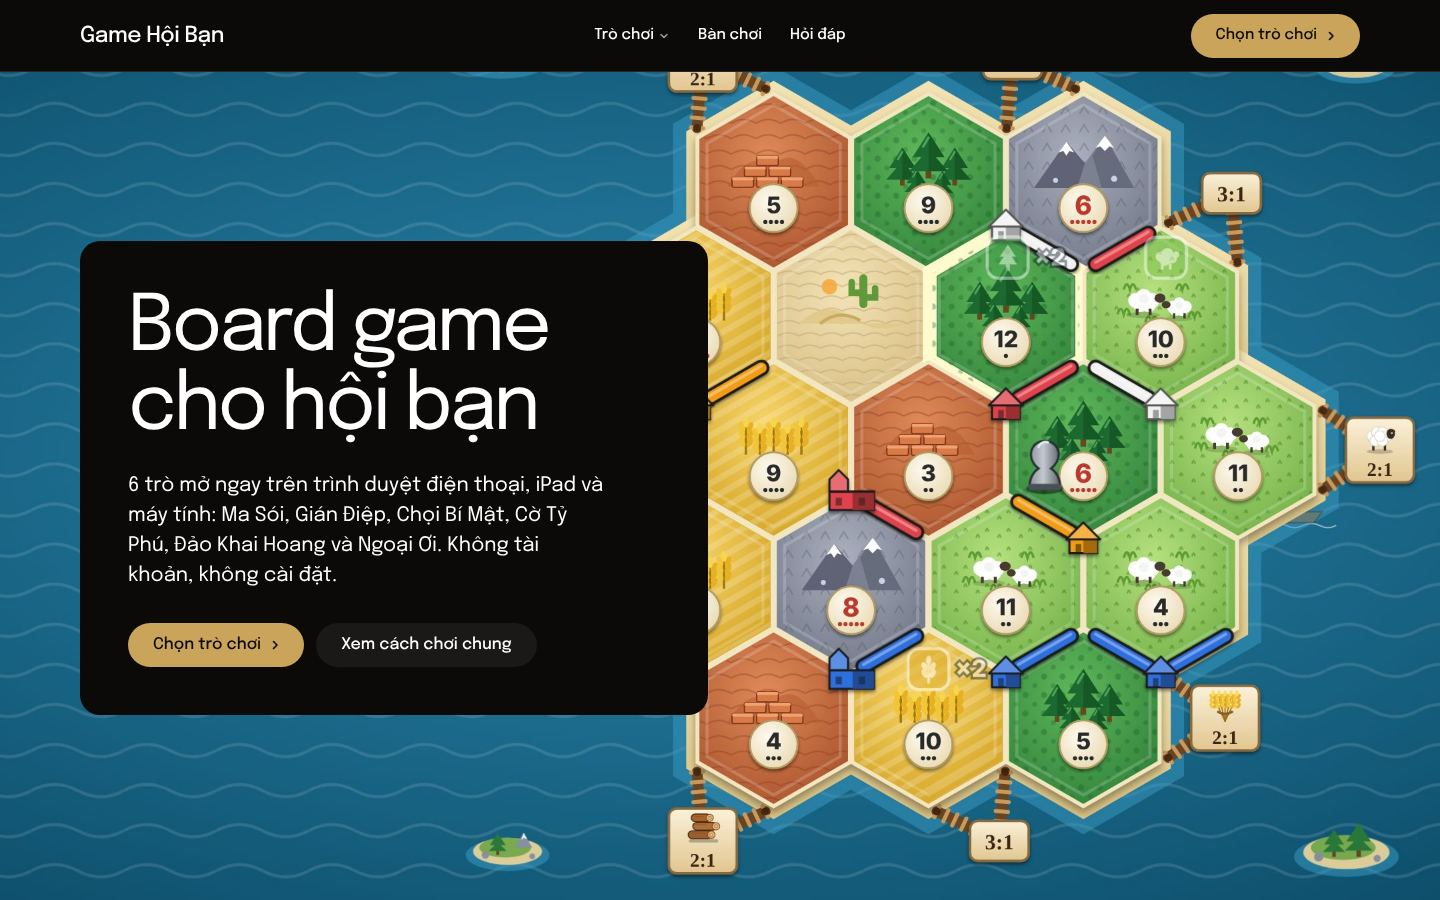
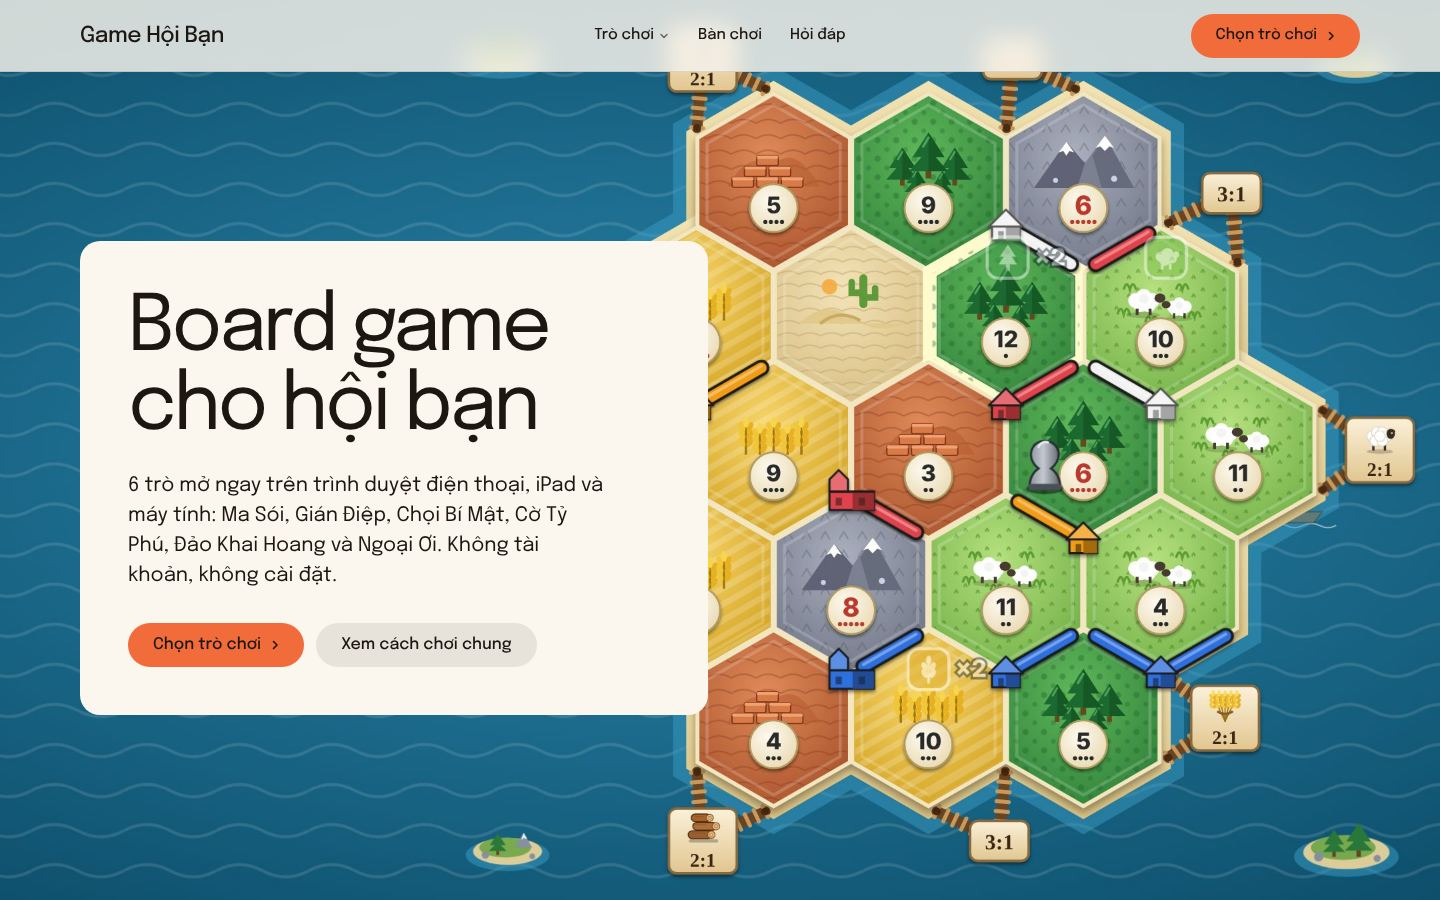
Trang chủ: nền gradient sáng, mỗi trò chơi một khối màu riêng
Claude-Session: https://claude.ai/code/session_01TPWJLoKPBQqbh64KQ8QdTd

diff --git a/index.html b/index.html
@@ -28,10 +28,10 @@
 <link rel="stylesheet" href="assets/icons/icon.css">
 <style>
 :root {
-  --p-bg: #0c0a08; --p-surface: #181512; --p-ink: #ffffff; --p-muted: #8f8a84;
-  --p-accent: #c9a45a; --p-accent-ink: #0c0a08; --p-action: #c9a45a; --p-action-ink: #0c0a08;
-  --p-inv-bg: #ffffff; --p-inv-surface: #ebebeb; --p-inv-ink: #0c0a08; --p-inv-muted: #5c5b59;
-  --p-inv-accent: #0c0a08; --p-inv-accent-ink: #ffffff; --p-inv-action: #0c0a08; --p-inv-action-ink: #ffffff;
+  --p-bg: #fbf6ee; --p-surface: #ffffff; --p-ink: #1d1712; --p-muted: #5a5048;
+  --p-accent: #f26b3a; --p-accent-ink: #1d1712; --p-action: #f26b3a; --p-action-ink: #1d1712;
+  --p-inv-bg: #1d1712; --p-inv-surface: #2a221b; --p-inv-ink: #fbf6ee; --p-inv-muted: #c9bfb4;
+  --p-inv-accent: #ffb48f; --p-inv-accent-ink: #1d1712; --p-inv-action: #ffb48f; --p-inv-action-ink: #1d1712;
   --font-display: "Epilogue", system-ui, sans-serif;
   --font-text: "Epilogue", system-ui, sans-serif;
   --font-mono: "JetBrains Mono", ui-monospace, "SFMono-Regular", Menlo, Consolas, monospace;
@@ -40,11 +40,29 @@
   --display-tracking-xl: -0.045em;
   --ly-scale: 0.97;
 }
+
+  /* the page ground: one soft light gradient behind everything; each game section a tinted block with
+     rounded corners, set apart by a strip of the page ground (the border is inside the section's height) */
+  body { background: radial-gradient(1200px 700px at 10% 0%, #fff1dc 0%, transparent 60%), radial-gradient(1000px 800px at 100% 30%, #e6f0ff 0%, transparent 60%), linear-gradient(180deg, #fbf6ee 0%, #f3f6fb 100%); background-attachment: fixed; }
+  main > section.section { position: relative; isolation: isolate; background: transparent; }
+  main > section.section::before { content: ""; position: absolute; inset: 10px; z-index: -1; border-radius: 40px; background-image: var(--blk); box-shadow: inset 0 0 0 1px rgba(29,23,18,.06); pointer-events: none; }
+  #ma-soi     { --blk: linear-gradient(150deg, #efeaff 0%, #dcd6ff 55%, #cfd8ff 100%); }
+  #gian-diep  { --blk: linear-gradient(150deg, #e4fbf2 0%, #c9f1e1 60%, #d8f3ff 100%); }
+  #choi       { --blk: linear-gradient(150deg, #e3f4ff 0%, #c7e7ff 55%, #d9f6f4 100%); }
+  #co-ty-phu  { --blk: linear-gradient(150deg, #fff1e4 0%, #ffdcc3 60%, #ffe9d6 100%); }
+  #khai-hoang { --blk: linear-gradient(150deg, #fff7dc 0%, #f6e7b8 50%, #dcefe6 100%); }
+  #ngoai-oi   { --blk: linear-gradient(150deg, #f1fbe3 0%, #d9f2bf 55%, #fff4cf 100%); }
+  #ban-choi   { --blk: linear-gradient(150deg, #fdeaf3 0%, #f6d6ea 55%, #e7defc 100%); }
+  #loi-hua    { --blk: linear-gradient(150deg, #fff4e6 0%, #ffe3cc 100%); }
+  #hoi-dap    { --blk: linear-gradient(150deg, #ffffff 0%, #eef2f7 100%); }
+  main > section.section :is(.frame, .shot) { box-shadow: 0 18px 40px -24px rgba(29,23,18,.35), 0 0 0 1px rgba(29,23,18,.06); }
+  .nav { background: rgba(251,246,238,.82); backdrop-filter: blur(12px); -webkit-backdrop-filter: blur(12px); }
+  @media (max-width: 639px) { main > section.section::before { inset: 6px; border-radius: 28px; } }
   @media (min-width: 1024px) { #khai-hoang .frame { height: 460px; } }
   .frame--hub { --ratio: 80%; }
   .frame--faq { --ratio: 100%; }
   .frame--faq .device { left: 50%; top: 48px; width: min(300px, 50%); translate: -50% 0; }
-  .footer--statement { --action: var(--p-action); --action-ink: var(--p-action-ink); }
+  .footer--statement { --action: var(--p-action); --action-ink: var(--p-action-ink); background: linear-gradient(150deg, #ffeedd 0%, #ffd9c4 55%, #fde3f0 100%); --ground-ink: #1d1712; --ground-muted: #5a5048; color: #1d1712; --ink: #1d1712; --muted: #5a5048; }
   @media (min-width: 1024px) and (max-width: 1279px) { .frame--hub { --ratio: 100%; } }
   @media (max-width: 1023px) { .frame--faq { --ratio: 70%; } }
   @media (max-width: 639px) { .frame--hub { --ratio: 100%; } .frame--faq { --ratio: 110%; } .frame--faq .device { width: 62%; top: 32px; } }

diff --git a/sw.js b/sw.js
@@ -1,5 +1,5 @@
 /* Game Hội Bạn — offline cache. Pages: network first (always fresh when online), cached copy when offline. */
-const V="ghb-v15";
+const V="ghb-v16";
 const CORE=["./","index.html","co-ty-phu.html","ma-soi.html","gian-diep.html","choi.html","khai-hoang.html","hub.css","vendor/peerjs.min.js","manifest.webmanifest","icon-192.png","icon-512.png","icon-180.png"];
 self.addEventListener("install",e=>{e.waitUntil(caches.open(V).then(c=>c.addAll(CORE)).then(()=>self.skipWaiting()))});
 self.addEventListener("activate",e=>{e.waitUntil(caches.keys().then(ks=>Promise.all(ks.filter(k=>k!==V).map(k=>caches.delete(k)))).then(()=>self.clients.claim()))});
